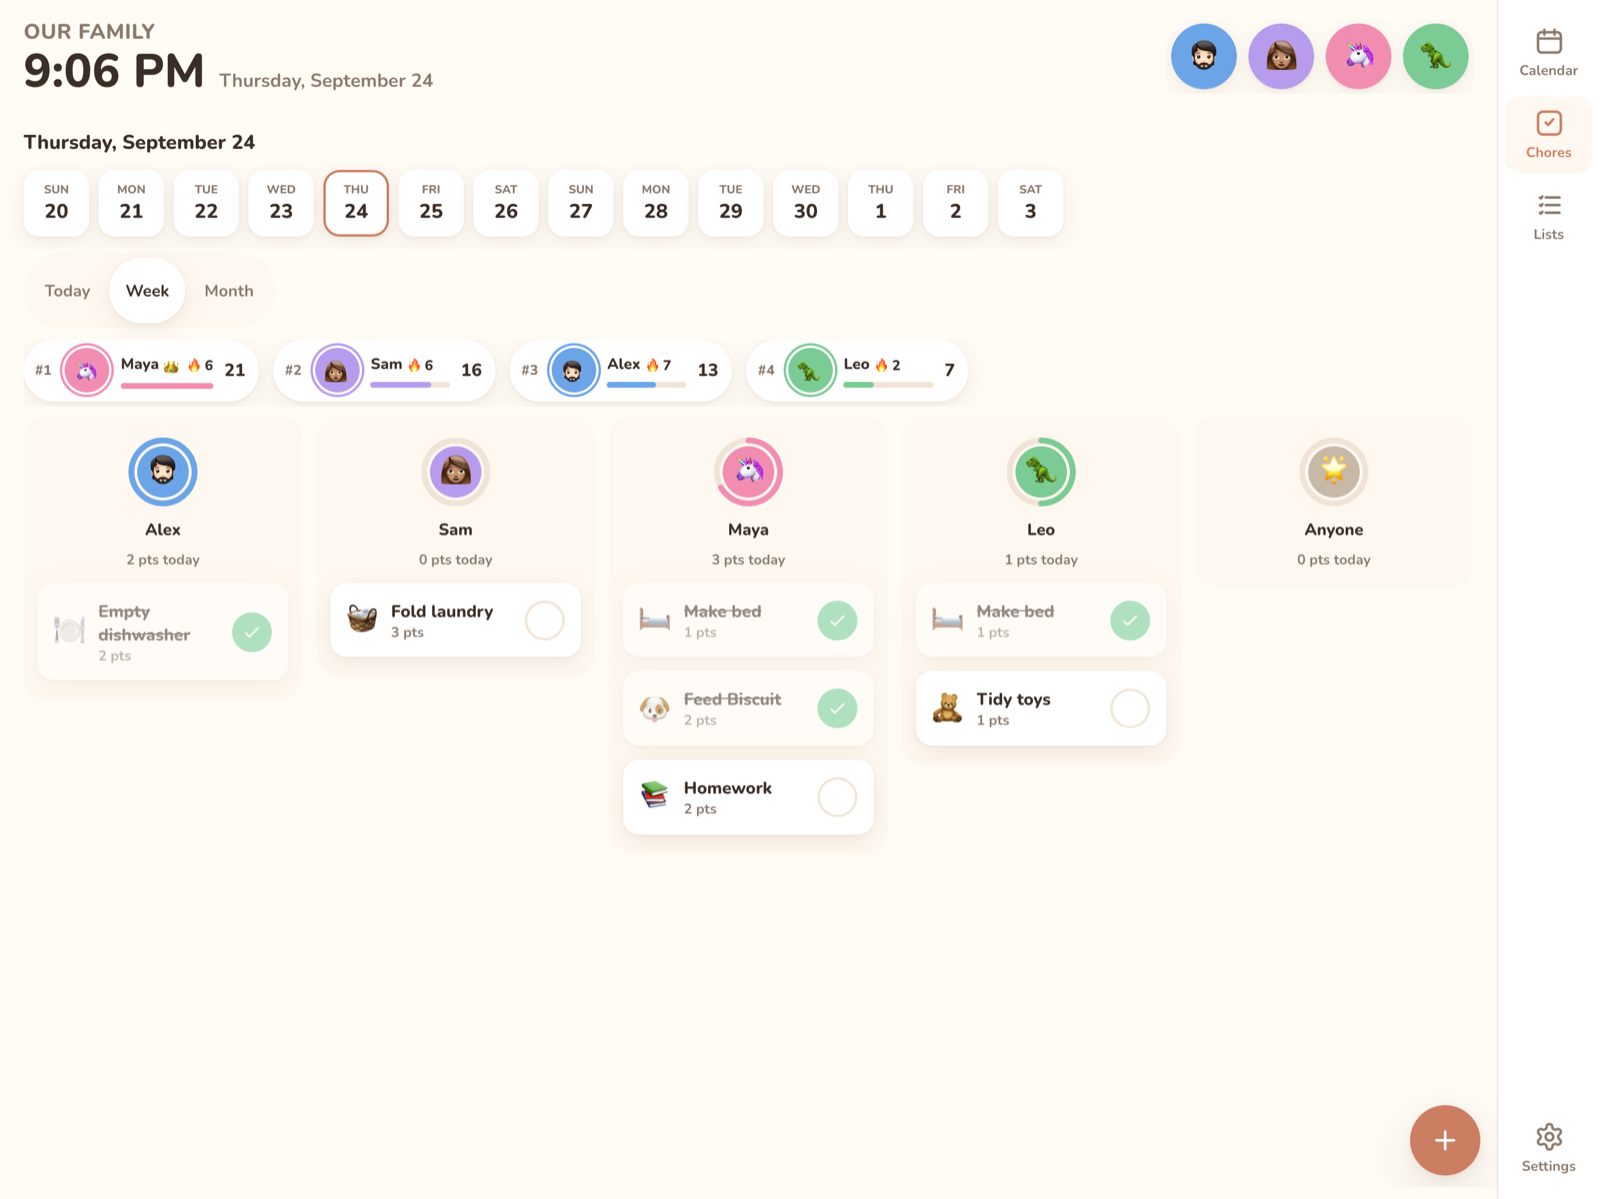
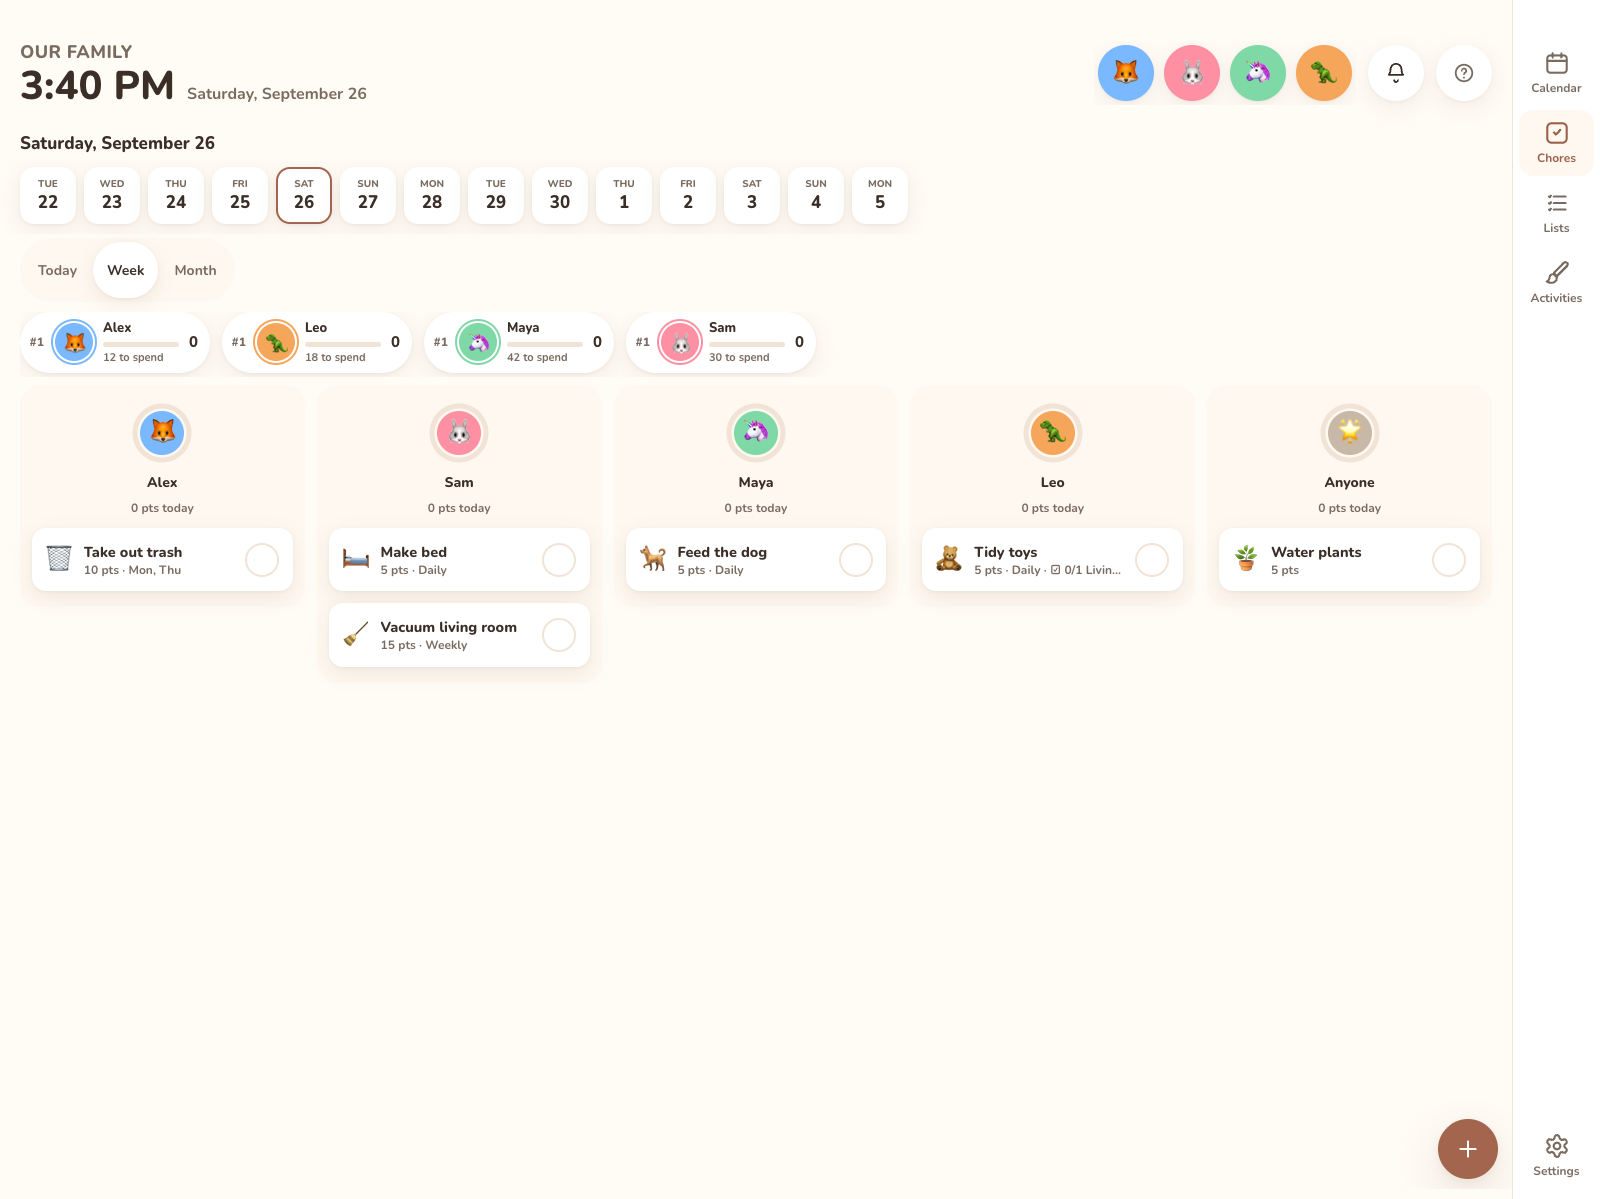
Fresh screenshots: the Board (light, dark, Midnight) leads the README, docs and homepage; Photos and phone Board shots; demo URL presets (theme, skin, view, clean, go, still, now) for captures; phone header date no longer clips at 390 px

diff --git a/web/src/main.tsx b/web/src/main.tsx
@@ -1,7 +1,45 @@
 import { StrictMode } from 'react'
 import { createRoot } from 'react-dom/client'
-import App from './App.tsx'
 import './styles.css'
+
+// Not imported from api.ts: that would load the mock data before the demo clock below is in place.
+const MOCK = import.meta.env.VITE_MOCK === '1'
+
+// Demo build only: ?theme=dark|light, ?skin=<id>, ?view=board|week|day|month|schedule and ?clean=1
+// (no demo bar) preset a fresh copy - for screenshots and shareable links; never in real builds.
+if (MOCK) {
+  const q = new URLSearchParams(location.search)
+  if (q.size) {
+    try {
+      const prefs = JSON.parse(localStorage.getItem('kinwall.deviceAppearance') || '{}')
+      if (q.get('theme')) prefs.themeMode = q.get('theme')
+      if (q.get('skin')) prefs.skin = q.get('skin')
+      localStorage.setItem('kinwall.deviceAppearance', JSON.stringify(prefs))
+      if (q.get('view')) sessionStorage.setItem('kinwall.demoView', q.get('view')!)
+      if (q.get('clean')) sessionStorage.setItem('kinwall.demoClean', '1')
+      if (q.get('go')) location.hash = '#' + q.get('go')!.replace(/^#/, '')
+    } catch { /* storage blocked: fine */ }
+    // ?still=1: no animations or transitions (screenshots). ?now=2026-09-30T15:40: the demo's
+    // clock starts there and keeps ticking, so the sample data lands at sensible times of day.
+    if (q.get('still')) { const st = document.createElement('style'); st.textContent = '*, *::before, *::after { animation: none !important; transition: none !important; }'; document.head.appendChild(st) }
+    const at = q.get('now') ? Date.parse(q.get('now')!) : NaN
+    if (!Number.isNaN(at)) {
+      const RealDate = Date
+      const started = RealDate.now()
+      const shifted = () => at + (RealDate.now() - started)
+      // eslint-disable-next-line @typescript-eslint/no-explicit-any
+      const FakeDate: any = function (this: unknown, ...args: unknown[]) {
+        if (!new.target) return new RealDate(shifted()).toString()
+        return args.length ? new (RealDate as any)(...args) : new RealDate(shifted())
+      }
+      FakeDate.prototype = RealDate.prototype
+      FakeDate.now = shifted
+      FakeDate.parse = RealDate.parse
+      FakeDate.UTC = RealDate.UTC
+      ;(globalThis as any).Date = FakeDate
+    }
+  }
+}
 
 if (import.meta.env.DEV) import('./skins.ts').then(({ assertSkinsAA }) => assertSkinsAA())
 
@@ -17,6 +55,8 @@ if ('serviceWorker' in navigator) {
   navigator.serviceWorker.register(new URL('sw.js', document.baseURI), { scope: new URL('.', document.baseURI).pathname }).catch(() => {})
 }
 
+// Imported after the demo presets above so the mock's relative sample data sees the shifted clock.
+const { default: App } = await import('./App.tsx')
 createRoot(document.getElementById('root')!).render(
   <StrictMode>
     <App />

diff --git a/web/src/Calendar.tsx b/web/src/Calendar.tsx
@@ -1,7 +1,7 @@
 import { Fragment, useEffect, useMemo, useRef, useState } from 'react'
 import { addDays, addMonths, endOfMonth, endOfWeek, format, isSameMonth, startOfDay, startOfMonth, startOfWeek } from 'date-fns'
 import { useApp } from './AppContext.tsx'
-import { api, ApiError, stripHtmlToText } from './api.ts'
+import { api, ApiError, MOCK, stripHtmlToText } from './api.ts'
 import type { CalendarEntry, Category, EventInstance, List, ListItem } from './types.ts'
 import { REMINDER_OPTIONS, reminderLabel } from './types.ts'
 import { dateKey, formatTime, minutesSinceMidnight, zonedDayKey } from './date.ts'
@@ -114,7 +114,7 @@ export default function CalendarView() {
   // Phones default to the agenda view (a 7-day grid is unreadable that narrow); the wall iPad
   // keeps Week. Only the initial default differs — switching views afterward still works either way.
   // A device can lock the view (This display → Lock view): the switcher goes and it never changes.
-  const [chosenView, setViewMode] = useState<ViewMode>('board') // the board is the default everywhere; a display can still lock any view
+  const [chosenView, setViewMode] = useState<ViewMode>(() => (MOCK && (sessionStorage.getItem('kinwall.demoView') as ViewMode | null)) || 'board') // the board is the default everywhere; a display can still lock any view
   const viewMode: ViewMode = device.lockView ?? chosenView
   // The board carries its own big clock, so the header drops its clock while it's showing.
   useEffect(() => { document.documentElement.dataset.view = viewMode; return () => { delete document.documentElement.dataset.view } }, [viewMode])

diff --git a/web/src/App.tsx b/web/src/App.tsx
@@ -866,7 +866,7 @@ function AppRoutes() {
         {toastMsg && (toastMsg.persist
           ? <button className="toast" onClick={() => setToastMsg(null)} aria-label={`${toastMsg.msg} (dismiss)`}>{toastMsg.msg} <span aria-hidden="true">✕</span></button>
           : <div className="toast">{toastMsg.msg}</div>)}
-        {MOCK && <div className="demo-bar" role="status">Demo — nothing is saved. Reload for a fresh copy.</div>}
+        {MOCK && !sessionStorage.getItem('kinwall.demoClean') && <div className="demo-bar" role="status">Demo — nothing is saved. Reload for a fresh copy.</div>}
         {bannerMsg && <button className="toast update-banner" onClick={() => setBannerMsg(null)}>{bannerMsg}</button>}
         {updateAvailable && <button className="toast update-banner" onClick={() => location.reload()}>Kinwall updated — tap to reload</button>}
         <QuietOverlay settings={settings} isDisplay={scope === 'display'} />

diff --git a/web/src/styles.css b/web/src/styles.css
@@ -1071,7 +1071,7 @@ button {
     white-space: nowrap; overflow: hidden; text-overflow: ellipsis; min-width: 0;
   }
   .clock-sm { font-size: 1.25rem; font-weight: 800; font-variant-numeric: tabular-nums; white-space: nowrap; flex-shrink: 0; }
-  .date-text-sm { font-size: 0.71875rem; font-weight: 700; color: var(--text-dim); padding-left: 1px; white-space: nowrap; flex-shrink: 0; }
+  .date-text-sm { font-size: 0.71875rem; font-weight: 700; color: var(--text-dim); padding-left: 1px; white-space: nowrap; flex-shrink: 1; min-width: 0; overflow: hidden; text-overflow: ellipsis; text-align: right; }
   .header-phone-people { margin-top: 6px; }
   .header-phone .member-filter-row { gap: 6px; padding: 0; flex: 1; min-width: 0; overflow-x: auto; scrollbar-width: none; }
   .header-phone .member-avatar { width: 36px; height: 36px; font-size: 0.9375rem; border-width: 2px; box-shadow: none; }

diff --git a/README.md b/README.md
@@ -2,10 +2,10 @@
 
 Kinwall is an open-source, self-hosted family wall calendar, chore chart and shared list app, built for a wall-mounted iPad and just as handy on everyone's phone. It merges Google, Outlook, iCloud/CalDAV and ICS calendars into one color-coded view, gives each family member chores with points and streaks, and keeps the shopping list in sync. Everything it does is also available through a REST API, webhooks and an MCP server.
 
-![Week view on a wall-mounted iPad](docs/screenshots/ipad-week.png)
+![Board view on a wall-mounted iPad: big clock, weather, today, coming up, chores and a family photo](docs/screenshots/ipad-board.png)
 
 <p align="center">
-  <img src="docs/screenshots/phone-3day.png" width="30%" alt="3-day view on a phone" />
+  <img src="docs/screenshots/phone-board.png" width="30%" alt="Board view on a phone" />
   <img src="docs/screenshots/phone-event.png" width="30%" alt="Event details" />
   <img src="docs/screenshots/phone-chores-dark.png" width="30%" alt="Chores in dark mode" />
 </p>

diff --git a/docs/README.md b/docs/README.md
@@ -2,10 +2,11 @@
 
 Kinwall is an open-source, self-hosted family wall calendar, chore chart and shared lists app. It's built for a wall-mounted iPad and works just as well on phones. It merges Google, Outlook, iCloud/CalDAV and ICS calendars into one color-coded view and gives every family member their own chores and points.
 
-![Week view on a wall-mounted iPad](screenshots/ipad-week.png)
+![Board view on a wall-mounted iPad](screenshots/ipad-board.png)
 
 | | |
 |---|---|
+| ![Board view on a phone](screenshots/phone-board.png) | ![Week view on the wall iPad](screenshots/ipad-week.png) |
 | ![3-day view on a phone](screenshots/phone-3day.png) | ![Chores with leaderboard and streaks](screenshots/ipad-chores.png) |
 
 ## Where to start

diff --git a/docs/using/calendar.md b/docs/using/calendar.md
@@ -2,7 +2,7 @@
 
 The Calendar tab is the main screen. It merges every enabled calendar into one view. Each event is colored by its [category](categories.md), or by its family member if it has no category.
 
-![Week view on the wall iPad](../screenshots/ipad-week.png)
+![Board view on the wall iPad](../screenshots/ipad-board.png)
 
 ## Views
 
@@ -25,6 +25,8 @@ Every device opens on **Board**; the view switcher lists Board first. You can sw
 </p>
 
 ## Board view
+
+![Board view in dark mode](../screenshots/ipad-board-dark.png)
 
 The board carries its own large clock and date, so while it's showing the header keeps only the family name, avatars and buttons.
 

diff --git a/docs/using/photos.md b/docs/using/photos.md
@@ -2,6 +2,8 @@
 
 **Activities → Photos** keeps a small album of family pictures. They show up on the calendar's [Board view](calendar.md#board-view) picture card and, if you choose, in a display's [quiet-hours screensaver](quiet-hours.md#screensaver).
 
+![Photos on the wall iPad](../screenshots/ipad-photos.png)
+
 ## Adding photos
 
 Tap **Add photos** and pick one or more pictures. On an iPhone or iPad this opens your Photos library.

diff --git a/docs/using/appearance.md b/docs/using/appearance.md
@@ -1,5 +1,7 @@
 # Appearance
 
+![Board view with the Midnight skin](../screenshots/ipad-board-midnight.png)
+
 ![Week view in dark mode](../screenshots/ipad-week-dark.png)
 
 Appearance works on two levels:

diff --git a/docs/getting-started/put-it-on-the-wall.md b/docs/getting-started/put-it-on-the-wall.md
@@ -1,6 +1,6 @@
 # Put it on the wall
 
-![Week view on the wall iPad](../screenshots/ipad-week.png)
+![Board view on the wall iPad](../screenshots/ipad-board.png)
 
 ## 1. Pair the display
 
